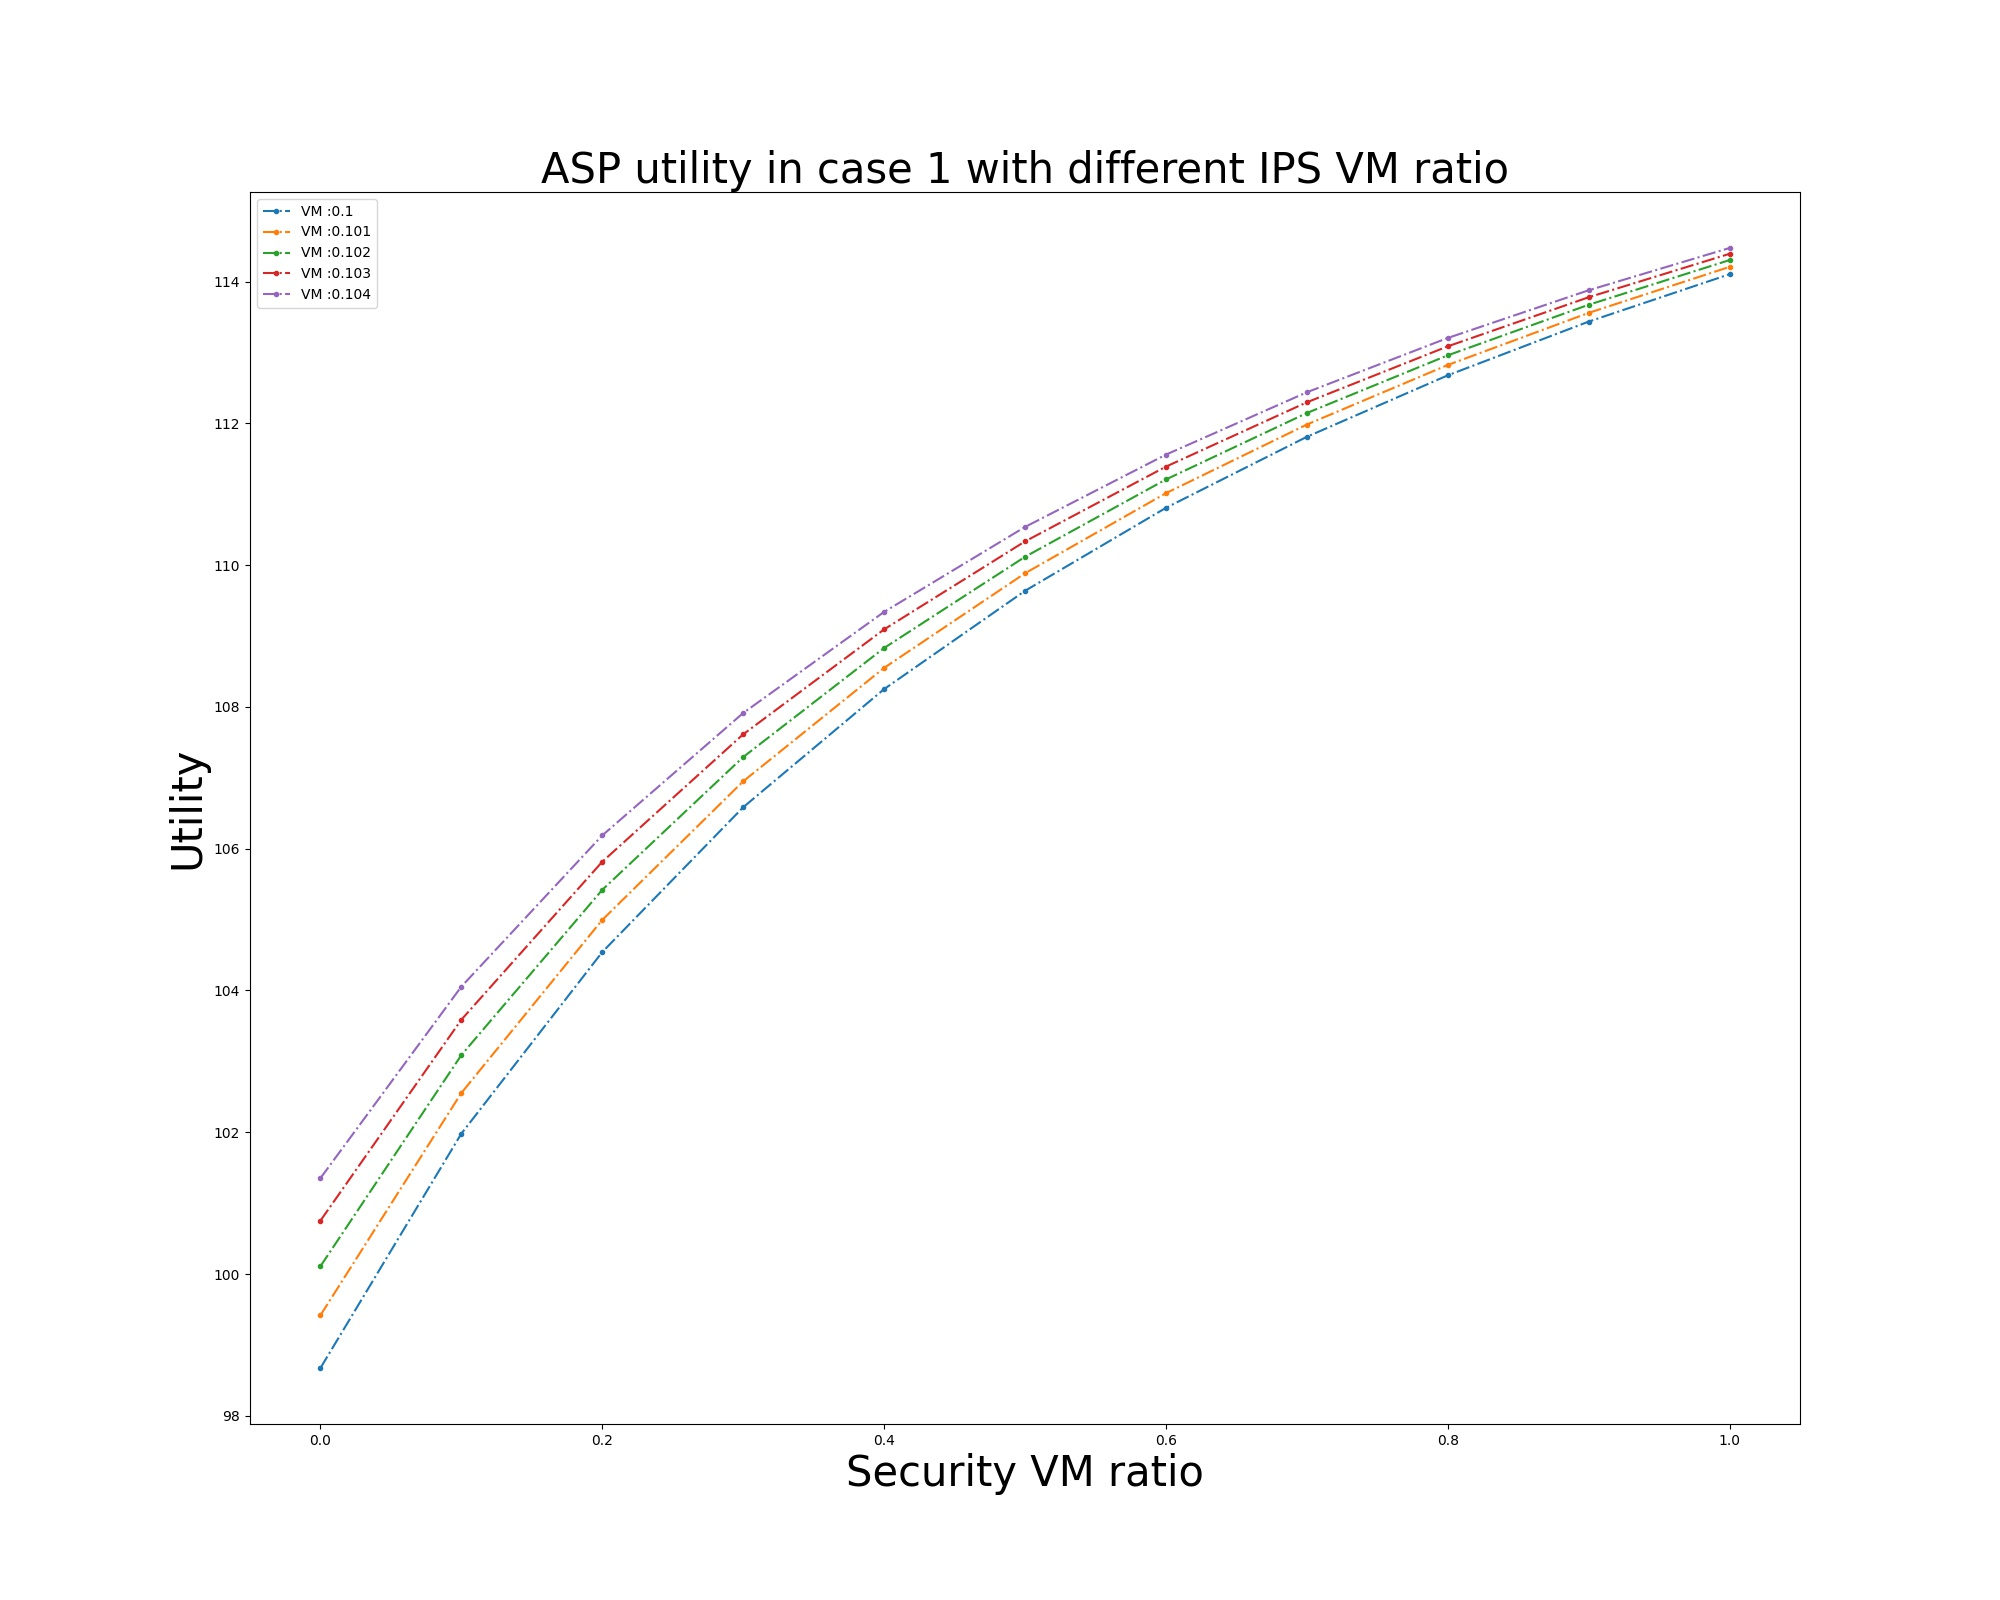
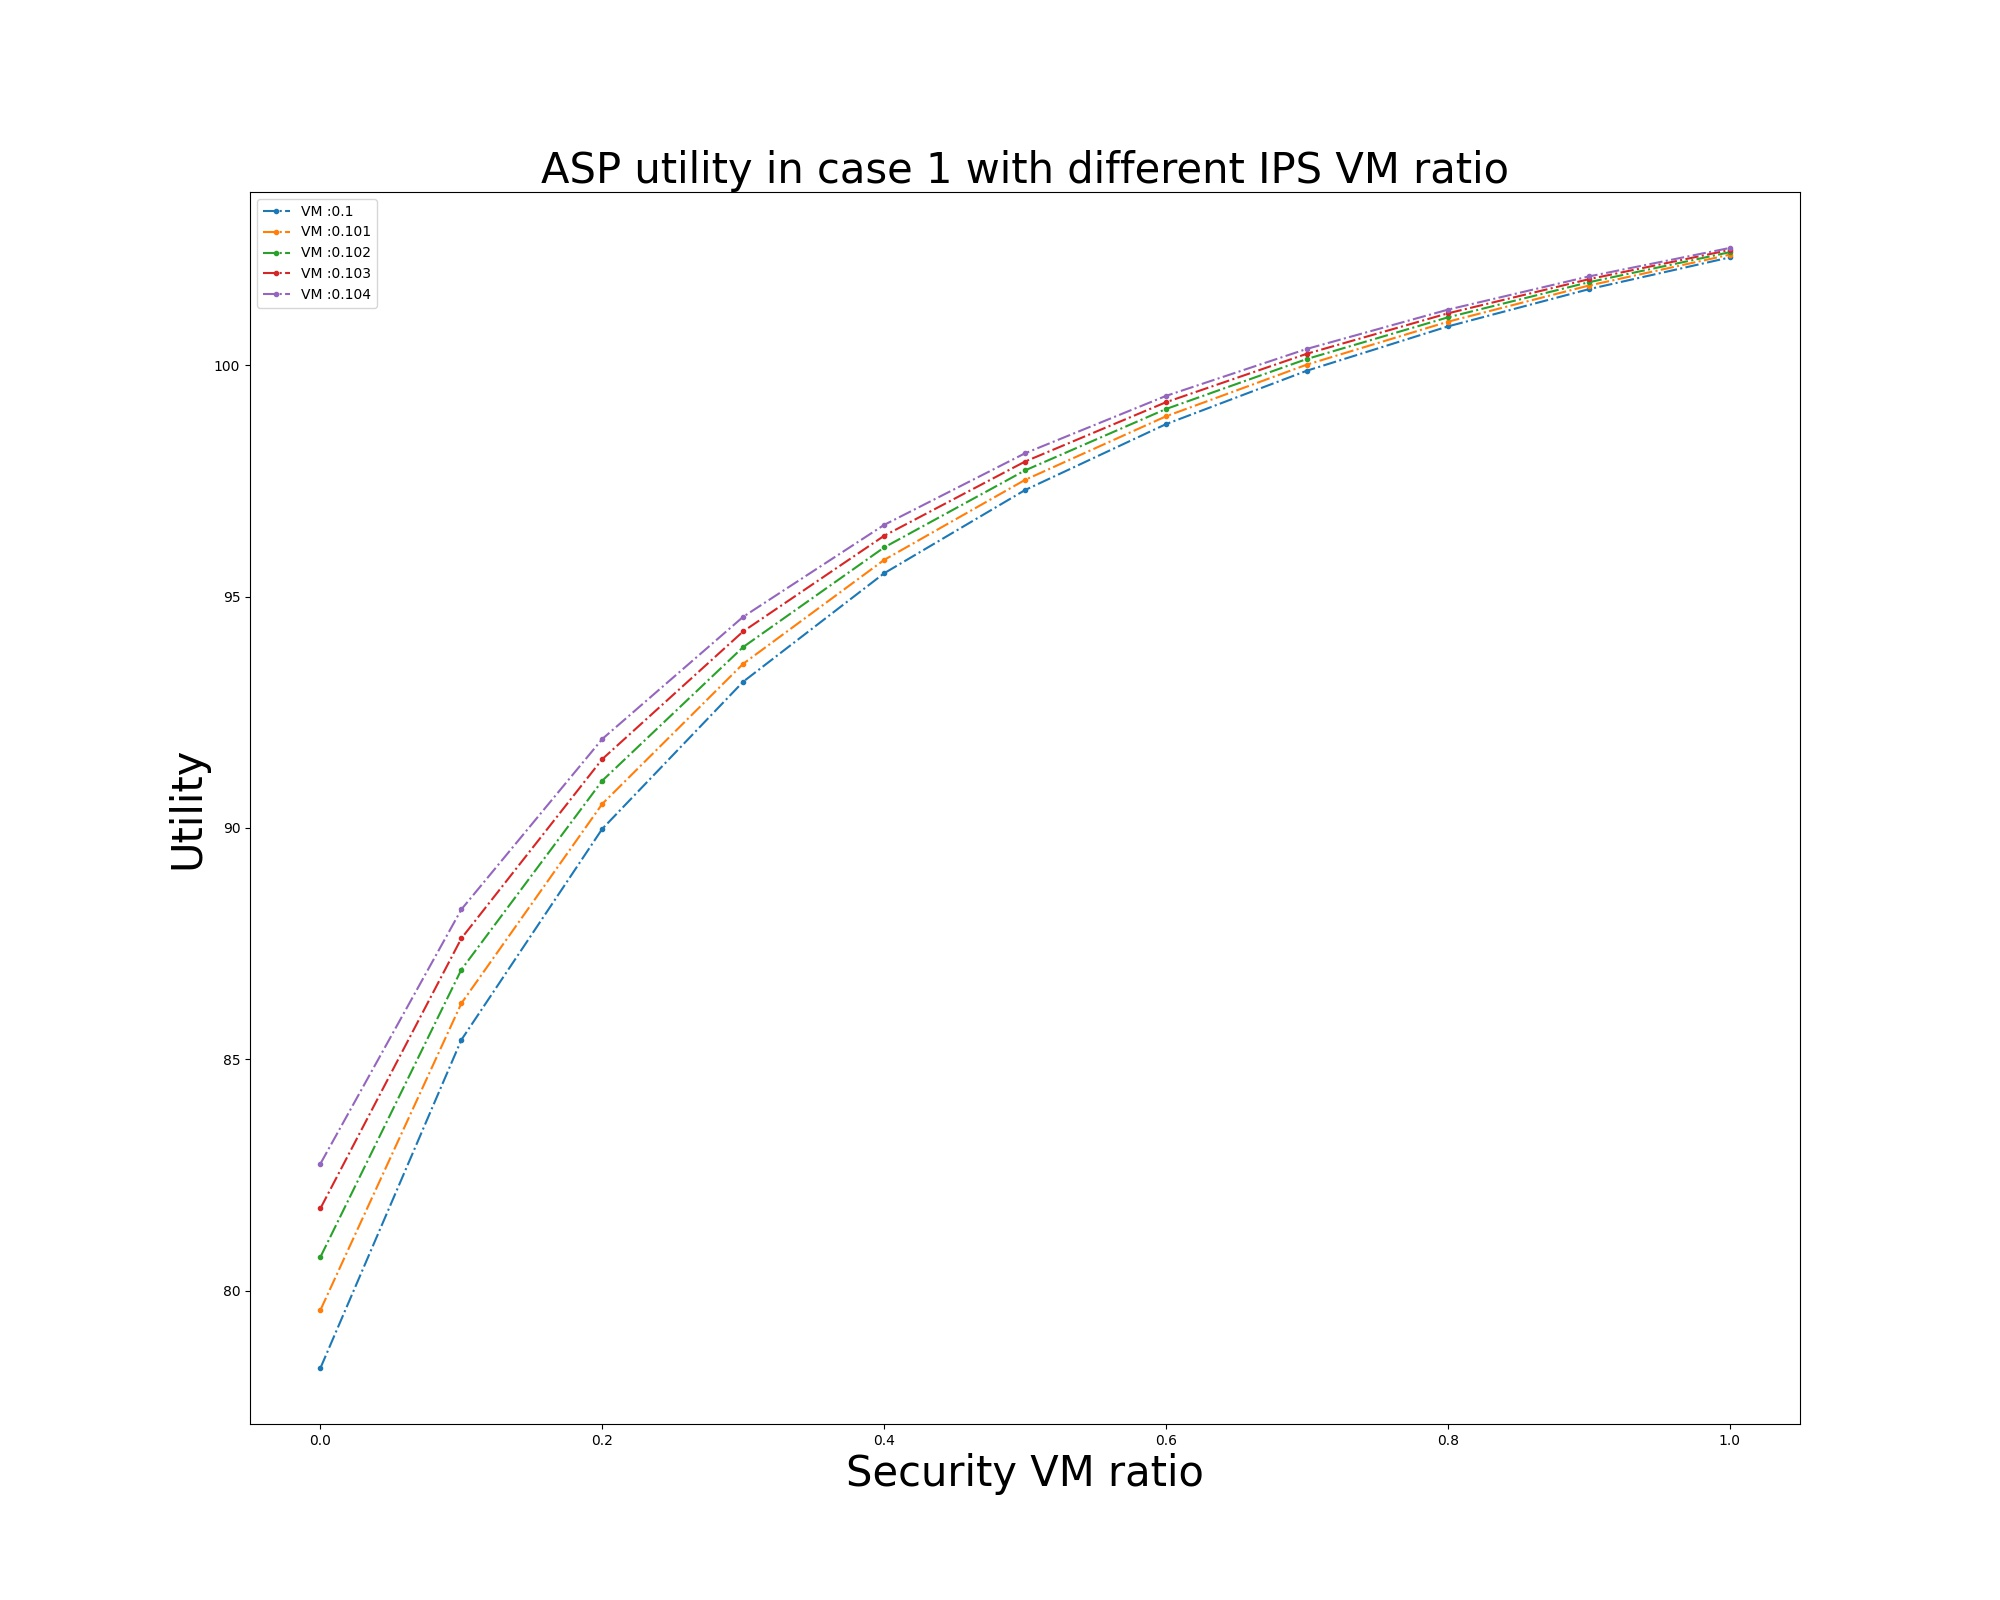
add social welfare

Changed region(s): [[0.155, 0.1562, 0.868, 0.8438]]

diff --git a/simulation_code/mpo.py b/simulation_code/mpo.py
@@ -71,17 +71,11 @@ class MPO():
     def plot_phi(self):
         self.find_optimize_phi()
         phi = 500
-        step = 2
+        step = 3
         pr = []
-        pr_zh1 = []
-        pr_zh2 = []
-        pr_zh3 = []
         ut = []
         bound = []
         num = []
-        ut_zh1 = []
-        ut_zh2 = []
-        ut_zh3 = []
         vm_prior = float('inf')
         for _ in range(1000):
             self.set_and_check_required_vm(phi)
@@ -89,43 +83,6 @@ class MPO():
             pr.append(phi)
             ut.append(phi * vm_after - MPO_cost(vm_after))
             num.append(vm_after)
-            phi += step
-            if vm_prior < vm_after:
-                print('Total VM is not non-increasing')
-            vm_prior = vm_after
-
-        vm_prior = float('inf')
-        phi = 500
-        for _ in range(1000):
-            self.set_and_check_required_vm_with_chi(phi, 0)
-            vm_after = self.total_vm()
-            pr_zh1.append(phi)
-            ut_zh1.append(phi * vm_after - MPO_cost(vm_after))
-            phi += step
-            if vm_prior < vm_after:
-                print('Total VM is not non-increasing')
-            vm_prior = vm_after
-
-        vm_prior = float('inf')
-        phi = 500
-        for _ in range(1000):
-            self.set_and_check_required_vm_with_chi(phi, 0.3)
-            vm_after = self.total_vm()
-            pr_zh2.append(phi)
-            ut_zh2.append(phi * vm_after - MPO_cost(vm_after))
-            phi += step
-            if vm_prior < vm_after:
-                print('Total VM is not non-increasing')
-            vm_prior = vm_after
-
-        vm_prior = float('inf')
-        phi = 500
-        ratio = np.random.rand(self.num_of_asp) * 0.9
-        for _ in range(1000):
-            self.set_and_check_required_vm_with_chi_random(phi, ratio)
-            vm_after = self.total_vm()
-            pr_zh3.append(phi)
-            ut_zh3.append(phi * vm_after - MPO_cost(vm_after))
             phi += step
             if vm_prior < vm_after:
                 print('Total VM is not non-increasing')
@@ -140,17 +97,6 @@ class MPO():
         plt.vlines(self.constraint_phi, ymin=0, ymax=max(ut), linestyle='-', color='darkorange', label='Price Constraint')
         plt.legend(loc="best")
         plt.savefig('./utility.jpg')
-        plt.close()
-        plt.figure(figsize=(20, 16), dpi=100)
-        plt.plot(pr, ut, marker='.', linestyle='-.', label='Optimized')
-        plt.plot(pr_zh1, ut_zh1, marker='.', linestyle='-.', label='No IPS VM')
-        plt.plot(pr_zh2, ut_zh2, marker='.', linestyle='-.', label='30% IPS VM')
-        plt.plot(pr_zh3, ut_zh3, marker='.', linestyle='-.', label='random IPS VM')
-        plt.title('Utility of MPO', fontsize=30)
-        plt.xlabel('MPO Price', fontsize=30)
-        plt.ylabel('Utility', fontsize=30)
-        plt.legend(loc="best")
-        plt.savefig('./utility_cmp.jpg')
         plt.close()
         plt.figure(figsize=(20, 16), dpi=100)
         plt.plot(pr, num, marker='.', linestyle='-.')
@@ -195,30 +141,129 @@ class MPO():
             vm = self.total_vm()
             self.constraint_phi = mid
 
-    def plot_malicious_ratio(self):
-        ratio = [0.1, 0.3, 0.5, 0.7, 0.9]
-        plt.figure(figsize=(20, 16), dpi=100)
-        step = 5
-        for ra in ratio:
-            ut = []
-            pr = []
-            phi = 500
+    # def plot_malicious_ratio(self):
+    #     ratio = [0.1, 0.3, 0.5, 0.7, 0.9]
+    #     plt.figure(figsize=(20, 16), dpi=100)
+    #     step = 5
+    #     for ra in ratio:
+    #         ut = []
+    #         pr = []
+    #         phi = 500
+    #         for asp in self.asp_lst:
+    #             asp.set_malicious_ratio(ra)
+    #         vm_prior = float('inf')
+    #         for _ in range(1000):
+    #             self.set_and_check_required_vm(phi)
+    #             vm_after = self.total_vm()
+    #             pr.append(phi)
+    #             ut.append(phi * vm_after - MPO_cost(vm_after))
+    #             phi += step
+    #             if vm_prior < vm_after:
+    #                 print('Total VM is not non-increasing')
+    #             vm_prior = vm_after
+    #         plt.plot(pr, ut, marker='.', linestyle='-.', label=f'ratio : {ra}')
+    #     plt.title('Utility of MPO')
+    #     plt.xlabel('MPO Price')
+    #     plt.ylabel('Utility')
+    #     plt.legend(loc="best")
+    #     plt.savefig('./utility_ratio.jpg')
+    #     plt.close()
+    def plot_social_welfare(self):
+        phi = 500
+        step = 2
+        pr = []
+        pr_zh1 = []
+        pr_zh2 = []
+        pr_zh3 = []
+        pr_zh4 = []
+        ut = []
+        ut_zh1 = []
+        ut_zh2 = []
+        ut_zh3 = []
+        ut_zh4 = []
+        vm_prior = float('inf')
+        for _ in range(1000):
+            self.set_and_check_required_vm(phi)
+            vm_after = self.total_vm()
+            pr.append(phi)
+            welfare = 0
             for asp in self.asp_lst:
-                asp.set_malicious_ratio(ra)
-            vm_prior = float('inf')
-            for _ in range(1000):
-                self.set_and_check_required_vm(phi)
-                vm_after = self.total_vm()
-                pr.append(phi)
-                ut.append(phi * vm_after - MPO_cost(vm_after))
-                phi += step
-                if vm_prior < vm_after:
-                    print('Total VM is not non-increasing')
-                vm_prior = vm_after
-            plt.plot(pr, ut, marker='.', linestyle='-.', label=f'ratio : {ra}')
-        plt.title('Utility of MPO')
-        plt.xlabel('MPO Price')
-        plt.ylabel('Utility')
+                welfare += asp.utility
+            ut.append(phi * vm_after - MPO_cost(vm_after) + welfare)
+            phi += step
+            if vm_prior < vm_after:
+                print('Total VM is not non-increasing')
+            vm_prior = vm_after
+
+        vm_prior = float('inf')
+        phi = 500
+        for _ in range(1000):
+            self.set_and_check_required_vm_with_chi(phi, 0)
+            vm_after = self.total_vm()
+            pr_zh1.append(phi)
+            welfare = 0
+            for asp in self.asp_lst:
+                welfare += asp.utility
+            ut_zh1.append(phi * vm_after - MPO_cost(vm_after) + welfare)
+            phi += step
+            if vm_prior < vm_after:
+                print('Total VM is not non-increasing')
+            vm_prior = vm_after
+
+        vm_prior = float('inf')
+        phi = 500
+        for _ in range(1000):
+            self.set_and_check_required_vm_with_chi(phi, 0.3)
+            vm_after = self.total_vm()
+            pr_zh2.append(phi)
+            welfare = 0
+            for asp in self.asp_lst:
+                welfare += asp.utility
+            ut_zh2.append(phi * vm_after - MPO_cost(vm_after) + welfare)
+            phi += step
+            if vm_prior < vm_after:
+                print('Total VM is not non-increasing')
+            vm_prior = vm_after
+
+        vm_prior = float('inf')
+        phi = 500
+        ratio = np.random.rand(self.num_of_asp) * 0.9
+        for _ in range(1000):
+            self.set_and_check_required_vm_with_chi_random(phi, ratio)
+            vm_after = self.total_vm()
+            pr_zh3.append(phi)
+            welfare = 0
+            for asp in self.asp_lst:
+                welfare += asp.utility
+            ut_zh3.append(phi * vm_after - MPO_cost(vm_after) + welfare)
+            phi += step
+            if vm_prior < vm_after:
+                print('Total VM is not non-increasing')
+            vm_prior = vm_after
+
+        vm_prior = float('inf')
+        phi = 500
+        for _ in range(1000):
+            self.set_and_check_required_vm_with_chi(phi, 0.9)
+            vm_after = self.total_vm()
+            pr_zh4.append(phi)
+            welfare = 0
+            for asp in self.asp_lst:
+                welfare += asp.utility
+            ut_zh4.append(phi * vm_after - MPO_cost(vm_after) + welfare)
+            phi += step
+            if vm_prior < vm_after:
+                print('Total VM is not non-increasing')
+            vm_prior = vm_after
+        plt.figure(figsize=(20, 16), dpi=100)
+        plt.plot(pr, ut, marker='.', linestyle='-.', label='Optimized')
+        plt.plot(pr_zh1, ut_zh1, marker='.', linestyle='-.', label='No IPS VM')
+        plt.plot(pr_zh2, ut_zh2, marker='.', linestyle='-.', label='30% IPS VM')
+        plt.plot(pr_zh3, ut_zh3, marker='.', linestyle='-.', label='random IPS VM')
+        plt.plot(pr_zh4, ut_zh4, marker='.', linestyle='-.', label='90% IPS VM')
+        plt.title('Social Welfare', fontsize=30)
+        plt.xlabel('MPO Price', fontsize=30)
+        plt.ylabel('Utility', fontsize=30)
         plt.legend(loc="best")
-        plt.savefig('./utility_ratio.jpg')
+        plt.savefig('./utility_cmp.jpg')
         plt.close()

diff --git a/simulation_code/run.py b/simulation_code/run.py
@@ -7,6 +7,7 @@ import matplotlib.pyplot as plt
 if __name__ == '__main__':
     mpo = MPO(0.5)
     mpo.plot_phi()
+    mpo.plot_social_welfare()
     asp = ASP(0.5)
     asp.plot_max()
     asp.plot_max_zh()
@@ -24,14 +25,17 @@ if __name__ == '__main__':
         for _ in range(1000):
             mpo.set_and_check_required_vm(phi)
             vm_after = mpo.total_vm()
+            welfare = 0
+            for asp in mpo.asp_lst:
+                welfare += asp.utility
             pr.append(phi)
-            ut.append(phi * vm_after - MPO_cost(vm_after))
+            ut.append(phi * vm_after - MPO_cost(vm_after) + welfare)
             phi += step
             if vm_prior < vm_after:
                 print('Total VM is not non-increasing')
             vm_prior = vm_after
         plt.plot(pr, ut, marker='.', linestyle='-.', label=f'ratio : {ra}')
-    plt.title('Utility of MPO', fontsize=30)
+    plt.title('Social Welfare', fontsize=30)
     plt.xlabel('MPO Price', fontsize=30)
     plt.ylabel('Utility', fontsize=30)
     plt.legend(loc="best")

diff --git a/simulation_code/asp.py b/simulation_code/asp.py
@@ -163,7 +163,7 @@ class ASP():
                 self.set_process_time()
                 self.set_utility()
                 plt.scatter(self.z_v, self.utility, color=color_dict[mpo_price], marker='^')
-                for i in range(40, 150):
+                for i in range(50, 150):
                     self.z_v = i / 1000
                     self.z_h = 0
                     self.set_process_time()

diff --git a/simulation_code/const.py b/simulation_code/const.py
@@ -3,7 +3,7 @@ from math import exp
 # These are the parameters of Global
 # Prefix with GLOBAL_
 ########################################
-GLOBAL_ETA = 5000
+GLOBAL_ETA = 3200
 ########################################
 # These are the parameters of Device
 # Prefix with DEVICE_
